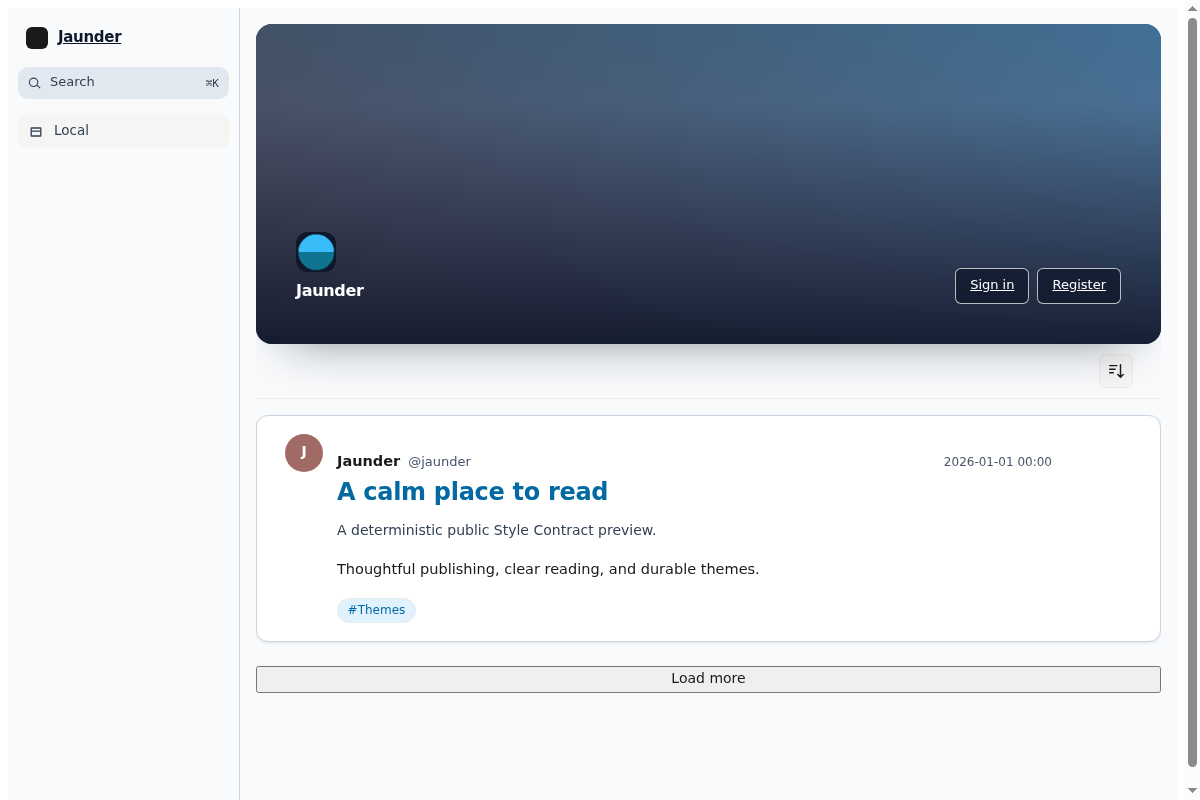
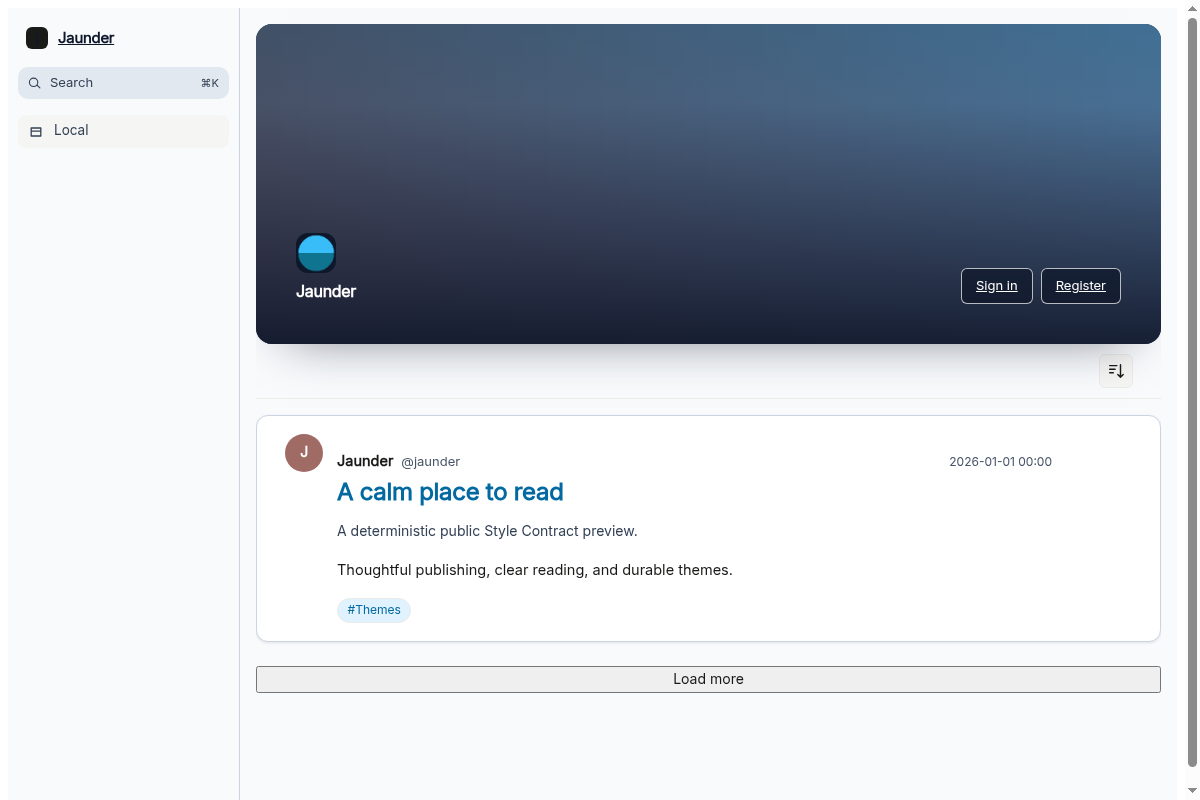
fix: apply packaged font at public semantic boundaries

diff --git a/style.css b/style.css
@@ -1,1 +1,1 @@
-@font-face{font-family:Tailwind Theme Inter;src:url(assets/inter-latin-regular.woff2)format("woff2");font-weight:400;font-style:normal;font-display:swap}:root{color:#1e293b;background:#f8fafc;min-height:100%;font-family:Tailwind Theme Inter,ui-sans-serif,system-ui,sans-serif}[data-jaunder-part=author-handle]{color:#475569}[data-jaunder-part=author-name]{font-weight:600}[data-jaunder-part=avatar]{border-radius:9999px}[data-jaunder-part=header-image]{z-index:0;object-fit:cover;width:100%;height:100%;margin:0;position:absolute;inset:0}[data-jaunder-part=hero]{isolation:isolate;background:#334155;border-radius:1rem;min-height:clamp(14rem,30vw,20rem);display:flex;position:relative;overflow:hidden;box-shadow:0 1.5rem 3rem -2rem #0f172a99}[data-jaunder-part=logo]{border-radius:.75rem;width:2.5rem;height:2.5rem}[data-jaunder-part=main]{width:min(64rem,100% - 2rem);margin-inline:auto;padding-block:1rem 3rem}[data-jaunder-part=masthead]{z-index:1;width:100%;min-height:inherit;color:#fff;box-shadow:none;background:linear-gradient(#0f172a1a 25%,#0f172aeb);border:0;border-radius:0;align-items:flex-end;margin:0;padding:clamp(1rem,4vw,2.5rem);position:relative}[data-jaunder-part=masthead] *{color:inherit}[data-jaunder-part=masthead] a{background:#0f172ab8;border-color:#ffffffb3}[data-jaunder-part=masthead] :focus-visible{outline-offset:3px;outline:3px solid #0284c7}[data-jaunder-part=navigation-rail]{color:#334155;background:#f8fafc;border-color:#cbd5e1}[data-jaunder-part=navigation-rail] *{color:inherit}[data-jaunder-part=navigation-search]{background:#e2e8f0;border-color:#cbd5e1}[data-jaunder-part=post]{overflow-wrap:anywhere;background:#fff;border:1px solid #cbd5e1;border-radius:.75rem;min-width:0;box-shadow:0 1px 3px #0f172a1a}[data-jaunder-part=post] a{color:#0369a1;text-decoration:none}[data-jaunder-part=post] a:hover{color:#075985}[data-jaunder-part=post] :focus-visible{outline-offset:3px;outline:3px solid #0284c7}[data-jaunder-part=post-body]{line-height:1.75}[data-jaunder-part=post-body] a{text-underline-offset:.15em;text-decoration-line:underline;text-decoration-thickness:.125em}[data-jaunder-part=post-list]{gap:1.5rem;padding-block:1rem;display:grid}[data-jaunder-part=post-summary]{color:#334155}[data-jaunder-part=post-title]{overflow-wrap:anywhere;font-size:1.5rem;font-weight:700;line-height:1.25}[data-jaunder-part=primary-navigation]{width:auto;margin:0;padding:0}[data-jaunder-part=primary-navigation] a{color:#334155;border-radius:.5rem;text-decoration:none}[data-jaunder-part=primary-navigation] a:hover{color:#0f172a;background:#e2e8f0}[data-jaunder-part=primary-navigation] :focus-visible{outline-offset:3px;outline:3px solid #0284c7}[data-jaunder-part=published-time]{color:#475569}[data-jaunder-part=site-brand]{color:#0f172a}[data-jaunder-part=site-title]{letter-spacing:-.025em;font-weight:700}[data-jaunder-part=source-attribution]{color:#475569}[data-jaunder-part=tag]{background:#e0f2fe;border-radius:9999px;padding:.2rem .6rem}[data-jaunder-part=tag-list]{flex-wrap:wrap;gap:.5rem;display:flex}[data-jaunder-part=tag-list] a{color:#0369a1;text-decoration:none}[data-jaunder-part=tag-list] a:hover{color:#075985}[data-jaunder-part=tag-list] :focus-visible{outline-offset:3px;outline:3px solid #0284c7}@media (max-width:44rem){[data-jaunder-part=hero]{border-radius:.75rem;min-height:13rem}[data-jaunder-part=main]{width:min(100% - 1rem,64rem);padding-block:.5rem 2rem}[data-jaunder-part=masthead]{align-items:flex-end;gap:.75rem}}@media (prefers-reduced-motion:reduce){:root{scroll-behavior:auto}[data-jaunder-part=masthead] *,[data-jaunder-part=post] *{transition-duration:.01ms;animation-duration:.01ms;animation-iteration-count:1}}@media (prefers-color-scheme:dark){:root{--ink:#e2e8f0;--surface-alt:#1e293b;color:#e2e8f0;background:#0f172a}[data-jaunder-part=author-handle]{color:#cbd5e1}[data-jaunder-part=masthead] :focus-visible{outline-color:#fbbf24}[data-jaunder-part=navigation-rail]{color:#cbd5e1;background:#0f172a;border-color:#334155}[data-jaunder-part=navigation-search]{background:#1e293b;border-color:#475569}[data-jaunder-part=post]{box-shadow:none;background:#1e293b;border-color:#475569}[data-jaunder-part=post] a{color:#7dd3fc}[data-jaunder-part=post] a:hover{color:#bae6fd}[data-jaunder-part=post] :focus-visible{outline-color:#fbbf24}[data-jaunder-part=post-summary],[data-jaunder-part=primary-navigation] a{color:#cbd5e1}[data-jaunder-part=primary-navigation] a:hover{color:#fff;background:#1e293b}[data-jaunder-part=primary-navigation] :focus-visible{outline-color:#fbbf24}[data-jaunder-part=published-time]{color:#cbd5e1}[data-jaunder-part=site-brand]{color:#f8fafc}[data-jaunder-part=source-attribution]{color:#cbd5e1}[data-jaunder-part=tag]{background:#334155}[data-jaunder-part=tag-list] a{color:#7dd3fc}[data-jaunder-part=tag-list] a:hover{color:#bae6fd}[data-jaunder-part=tag-list] :focus-visible{outline-color:#fbbf24}}
+@font-face{font-family:Tailwind Theme Inter;src:url(assets/inter-latin-regular.woff2)format("woff2");font-weight:400;font-style:normal;font-display:swap}:root{color:#1e293b;background:#f8fafc;min-height:100%;font-family:Tailwind Theme Inter,ui-sans-serif,system-ui,sans-serif}[data-jaunder-part=author-handle]{color:#475569}[data-jaunder-part=author-name]{font-weight:600}[data-jaunder-part=avatar]{border-radius:9999px}[data-jaunder-part=header-image]{z-index:0;object-fit:cover;width:100%;height:100%;margin:0;position:absolute;inset:0}[data-jaunder-part=hero]{isolation:isolate;background:#334155;border-radius:1rem;min-height:clamp(14rem,30vw,20rem);display:flex;position:relative;overflow:hidden;box-shadow:0 1.5rem 3rem -2rem #0f172a99}[data-jaunder-part=logo]{border-radius:.75rem;width:2.5rem;height:2.5rem}[data-jaunder-part=main],[data-jaunder-part=main] *{font-family:Tailwind Theme Inter,ui-sans-serif,system-ui,sans-serif}[data-jaunder-part=main]{width:min(64rem,100% - 2rem);margin-inline:auto;padding-block:1rem 3rem}[data-jaunder-part=masthead]{z-index:1;width:100%;min-height:inherit;color:#fff;box-shadow:none;background:linear-gradient(#0f172a1a 25%,#0f172aeb);border:0;border-radius:0;align-items:flex-end;margin:0;padding:clamp(1rem,4vw,2.5rem);position:relative}[data-jaunder-part=masthead] *{color:inherit}[data-jaunder-part=masthead] a{background:#0f172ab8;border-color:#ffffffb3}[data-jaunder-part=masthead] :focus-visible{outline-offset:3px;outline:3px solid #0284c7}[data-jaunder-part=navigation-rail],[data-jaunder-part=navigation-rail] *{font-family:Tailwind Theme Inter,ui-sans-serif,system-ui,sans-serif}[data-jaunder-part=navigation-rail]{color:#334155;background:#f8fafc;border-color:#cbd5e1}[data-jaunder-part=navigation-rail] *{color:inherit}[data-jaunder-part=navigation-search]{background:#e2e8f0;border-color:#cbd5e1}[data-jaunder-part=post]{overflow-wrap:anywhere;background:#fff;border:1px solid #cbd5e1;border-radius:.75rem;min-width:0;box-shadow:0 1px 3px #0f172a1a}[data-jaunder-part=post] a{color:#0369a1;text-decoration:none}[data-jaunder-part=post] a:hover{color:#075985}[data-jaunder-part=post] :focus-visible{outline-offset:3px;outline:3px solid #0284c7}[data-jaunder-part=post-body]{line-height:1.75}[data-jaunder-part=post-body] a{text-underline-offset:.15em;text-decoration-line:underline;text-decoration-thickness:.125em}[data-jaunder-part=post-list]{gap:1.5rem;padding-block:1rem;display:grid}[data-jaunder-part=post-summary]{color:#334155}[data-jaunder-part=post-title]{overflow-wrap:anywhere;font-size:1.5rem;font-weight:700;line-height:1.25}[data-jaunder-part=primary-navigation]{width:auto;margin:0;padding:0}[data-jaunder-part=primary-navigation] a{color:#334155;border-radius:.5rem;text-decoration:none}[data-jaunder-part=primary-navigation] a:hover{color:#0f172a;background:#e2e8f0}[data-jaunder-part=primary-navigation] :focus-visible{outline-offset:3px;outline:3px solid #0284c7}[data-jaunder-part=published-time]{color:#475569}[data-jaunder-part=site-brand]{color:#0f172a}[data-jaunder-part=site-title]{letter-spacing:-.025em;font-weight:700}[data-jaunder-part=source-attribution]{color:#475569}[data-jaunder-part=tag]{background:#e0f2fe;border-radius:9999px;padding:.2rem .6rem}[data-jaunder-part=tag-list]{flex-wrap:wrap;gap:.5rem;display:flex}[data-jaunder-part=tag-list] a{color:#0369a1;text-decoration:none}[data-jaunder-part=tag-list] a:hover{color:#075985}[data-jaunder-part=tag-list] :focus-visible{outline-offset:3px;outline:3px solid #0284c7}@media (max-width:44rem){[data-jaunder-part=hero]{border-radius:.75rem;min-height:13rem}[data-jaunder-part=main]{width:min(100% - 1rem,64rem);padding-block:.5rem 2rem}[data-jaunder-part=masthead]{align-items:flex-end;gap:.75rem}}@media (prefers-reduced-motion:reduce){:root{scroll-behavior:auto}[data-jaunder-part=masthead] *,[data-jaunder-part=post] *{transition-duration:.01ms;animation-duration:.01ms;animation-iteration-count:1}}@media (prefers-color-scheme:dark){:root{--ink:#e2e8f0;--surface-alt:#1e293b;color:#e2e8f0;background:#0f172a}[data-jaunder-part=author-handle]{color:#cbd5e1}[data-jaunder-part=masthead] :focus-visible{outline-color:#fbbf24}[data-jaunder-part=navigation-rail]{color:#cbd5e1;background:#0f172a;border-color:#334155}[data-jaunder-part=navigation-search]{background:#1e293b;border-color:#475569}[data-jaunder-part=post]{box-shadow:none;background:#1e293b;border-color:#475569}[data-jaunder-part=post] a{color:#7dd3fc}[data-jaunder-part=post] a:hover{color:#bae6fd}[data-jaunder-part=post] :focus-visible{outline-color:#fbbf24}[data-jaunder-part=post-summary],[data-jaunder-part=primary-navigation] a{color:#cbd5e1}[data-jaunder-part=primary-navigation] a:hover{color:#fff;background:#1e293b}[data-jaunder-part=primary-navigation] :focus-visible{outline-color:#fbbf24}[data-jaunder-part=published-time]{color:#cbd5e1}[data-jaunder-part=site-brand]{color:#f8fafc}[data-jaunder-part=source-attribution]{color:#cbd5e1}[data-jaunder-part=tag]{background:#334155}[data-jaunder-part=tag-list] a{color:#7dd3fc}[data-jaunder-part=tag-list] a:hover{color:#bae6fd}[data-jaunder-part=tag-list] :focus-visible{outline-color:#fbbf24}}

diff --git a/evidence/issue-1549/harness/font-lifecycle-evidence.spec.ts b/evidence/issue-1549/harness/font-lifecycle-evidence.spec.ts
@@ -79,6 +79,7 @@ test("canonical Tailwind package CSS rewrites and loads its declared Inter font"
     const stylesheetResponse = await publicPage.request.get(new URL(stylesheet!, BASE_URL).href);
     expect(stylesheetResponse.ok()).toBeTruthy();
     const css = await stylesheetResponse.text();
+    expect(css).toContain("font-family:Tailwind Theme Inter");
     const route = css.match(new RegExp(`/theme/${fontDigest}(?=[)\\"'])`))?.[0];
     expect(route).toBe(`/theme/${fontDigest}`);
     const fontResponse = await publicPage.request.get(new URL(route!, BASE_URL).href);
@@ -88,15 +89,47 @@ test("canonical Tailwind package CSS rewrites and loads its declared Inter font"
       await document.fonts.ready;
       const root = document.documentElement;
       const post = document.querySelector('[data-jaunder-part="post"]');
+      const navigationRail = document.querySelector('[data-jaunder-part="navigation-rail"]');
+      const trustedAction = document.querySelector("#j-trusted-post-actions button");
+      const fontFamilyRules = (element: Element | null) => {
+        const matched: { selector: string; fontFamily: string }[] = [];
+        const collect = (rules: CSSRuleList) => {
+          for (const rule of rules) {
+            if (rule instanceof CSSStyleRule && rule.style.fontFamily) {
+              try {
+                if (element?.matches(rule.selectorText))
+                  matched.push({ selector: rule.selectorText, fontFamily: rule.style.fontFamily });
+              } catch {
+                // A browser-specific selector cannot affect this assertion.
+              }
+            } else if ("cssRules" in rule) {
+              collect((rule as CSSGroupingRule).cssRules);
+            }
+          }
+        };
+        for (const sheet of document.styleSheets) {
+          try {
+            collect(sheet.cssRules);
+          } catch {
+            // Cross-origin sheets are not readable; the package sheet is same-origin.
+          }
+        }
+        return matched;
+      };
       const rootFamily = getComputedStyle(root).fontFamily;
       const postFamily = post ? getComputedStyle(post).fontFamily : "";
+      const navigationRailFamily = navigationRail ? getComputedStyle(navigationRail).fontFamily : "";
       const loadedFamily = [...document.fonts]
         .filter((face) => face.status === "loaded")
         .map((face) => face.family)
-        .find((family) => rootFamily.includes(family.replaceAll('"', "")));
+        .find((family) => postFamily.includes(family.replaceAll('"', "")));
       return {
         rootFamily,
         postFamily,
+        navigationRailFamily,
+        trustedActionFamily: trustedAction ? getComputedStyle(trustedAction).fontFamily : null,
+        postMatchedFontFamilyRules: fontFamilyRules(post),
+        navigationRailMatchedFontFamilyRules: fontFamilyRules(navigationRail),
         loadedFamily: loadedFamily ?? null,
         fontCheck: loadedFamily ? document.fonts.check(`16px ${loadedFamily}`) : false,
       };
@@ -104,7 +137,13 @@ test("canonical Tailwind package CSS rewrites and loads its declared Inter font"
     expect(typography.loadedFamily).not.toBeNull();
     expect(typography.fontCheck).toBeTruthy();
     expect(typography.rootFamily).toContain(typography.loadedFamily!.replaceAll('"', ""));
-    expect(typography.postFamily).toBe(typography.rootFamily);
+    expect(typography.postFamily).toContain(typography.loadedFamily!.replaceAll('"', ""));
+    expect(typography.navigationRailFamily).toContain(typography.loadedFamily!.replaceAll('"', ""));
+    expect(typography.postMatchedFontFamilyRules).toEqual(expect.arrayContaining([
+      expect.objectContaining({ selector: expect.stringContaining('[data-jaunder-part="main"]') }),
+    ]));
+    if (typography.trustedActionFamily)
+      expect(typography.trustedActionFamily).not.toContain(typography.loadedFamily!.replaceAll('"', ""));
     Object.assign(result, { stylesheet, rewrittenFontRoute: route, typography });
   } finally {
     await publicContext.close();

diff --git a/src/theme.css b/src/theme.css
@@ -66,6 +66,11 @@
 }
 
 /* main */
+[data-jaunder-part="main"],
+[data-jaunder-part="main"] * {
+  font-family: "Tailwind Theme Inter", ui-sans-serif, system-ui, sans-serif;
+}
+
 [data-jaunder-part="main"] {
   width: min(64rem, calc(100% - 2rem));
   margin-inline: auto;
@@ -107,6 +112,11 @@
 }
 
 /* navigation-rail */
+[data-jaunder-part="navigation-rail"],
+[data-jaunder-part="navigation-rail"] * {
+  font-family: "Tailwind Theme Inter", ui-sans-serif, system-ui, sans-serif;
+}
+
 [data-jaunder-part="navigation-rail"] {
   color: #334155;
   background: #f8fafc;
